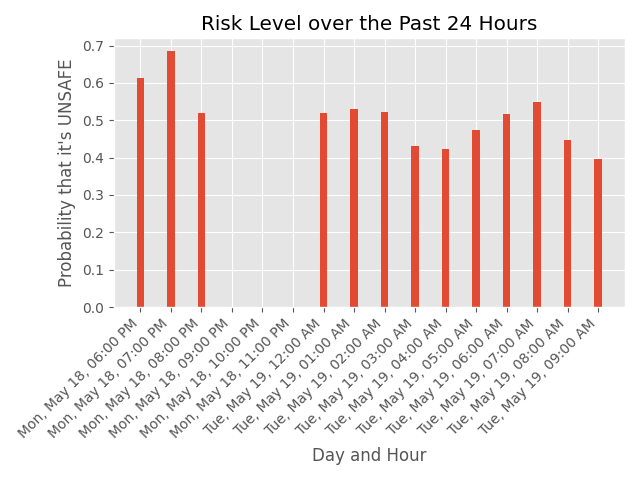
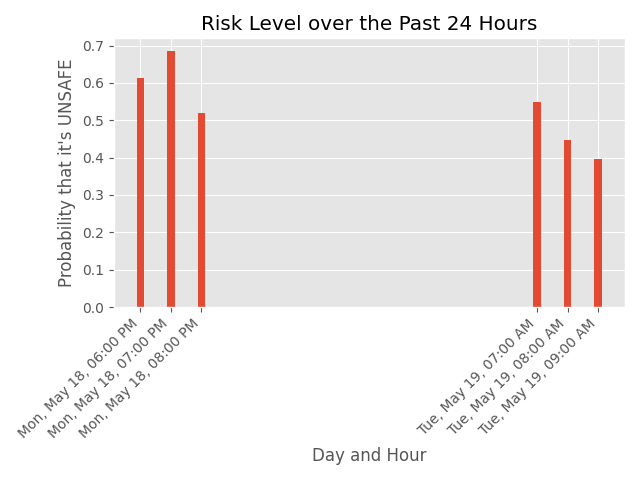
Removed awkward space in past satefy estimates for 24 hrs graph.

Changed region(s): [[0.1562, 0.2188, 0.7812, 0.9062], [0.7812, 0.2188, 0.8125, 0.6562]]

diff --git a/src/d06_visuals/heatmap_day_avgs.html b/src/d06_visuals/heatmap_day_avgs.html
@@ -34,14 +34,14 @@
           
           
             
-              <div class="bk-root" id="2077d1b4-0e16-4323-97da-3defdd7b9b0b" data-root-id="4798"></div>
+              <div class="bk-root" id="fece52fe-e770-4483-bab1-c3bae94ffe05" data-root-id="1844"></div>
             
           
         
       
       
-        <script type="application/json" id="4930">
[1 lines of base64/hex data omitted]
+        <script type="application/json" id="1976">
[1 lines of base64/hex data omitted]
         </script>
         <script type="text/javascript">
           (function() {
@@ -50,8 +50,8 @@
                 (function(root) {
                   function embed_document(root) {
                     
-                  var docs_json = document.getElementById('4930').textContent;
-                  var render_items = [{"docid":"32678b56-3b8a-4880-ad29-ddc37a01e911","root_ids":["4798"],"roots":{"4798":"2077d1b4-0e16-4323-97da-3defdd7b9b0b"}}];
+                  var docs_json = document.getElementById('1976').textContent;
+                  var render_items = [{"docid":"4a8abee3-f48b-4a92-934d-42c5c072c0f5","root_ids":["1844"],"roots":{"1844":"fece52fe-e770-4483-bab1-c3bae94ffe05"}}];
                   root.Bokeh.embed.embed_items(docs_json, render_items);
                 
                   }

diff --git a/src/d07_streamlit/front_end.py b/src/d07_streamlit/front_end.py
@@ -161,15 +161,13 @@ probs = pd.DataFrame(rf.predict_proba(X), columns=rf.classes_)
 probs.columns = ['prob_safe','prob_unsafe']
 df['prob_unsafe'] = probs.prob_unsafe
 
+# Graph the safety estimates over the past 24 hours
 # Downsample to hourly for easy interpretability
 df_hourly = df[['time_bin','prob_unsafe']]
 df_hourly = df_hourly.set_index('time_bin')
 df_hourly = df_hourly.resample('h').mean()
 df_hourly = df_hourly.reset_index()
 df_hourly['hour'] = df_hourly.time_bin.apply(lambda x: x.hour)
-
-# Filter to just the hours we guarantee
-df_hourly = df_hourly[(df_hourly.hour >= 7) & (df_hourly.hour <= 20)]
 
 # Restrict to relevant hours & past 24 hrs
 yesterday = (dt.datetime.now(tz=timezone('US/Eastern')) - dt.timedelta(days=1))
@@ -187,6 +185,9 @@ plt.savefig("../d06_visuals/risk_24hrs.png")
 st.pyplot()
 
 
+# Graph the average safety of each day-hour pair
+# Filter to just the hours we guarantee
+df_hourly = df_hourly[(df_hourly.hour >= 7) & (df_hourly.hour <= 20)]
 
 # Order the hours and weekdays in order
 hrs = []
